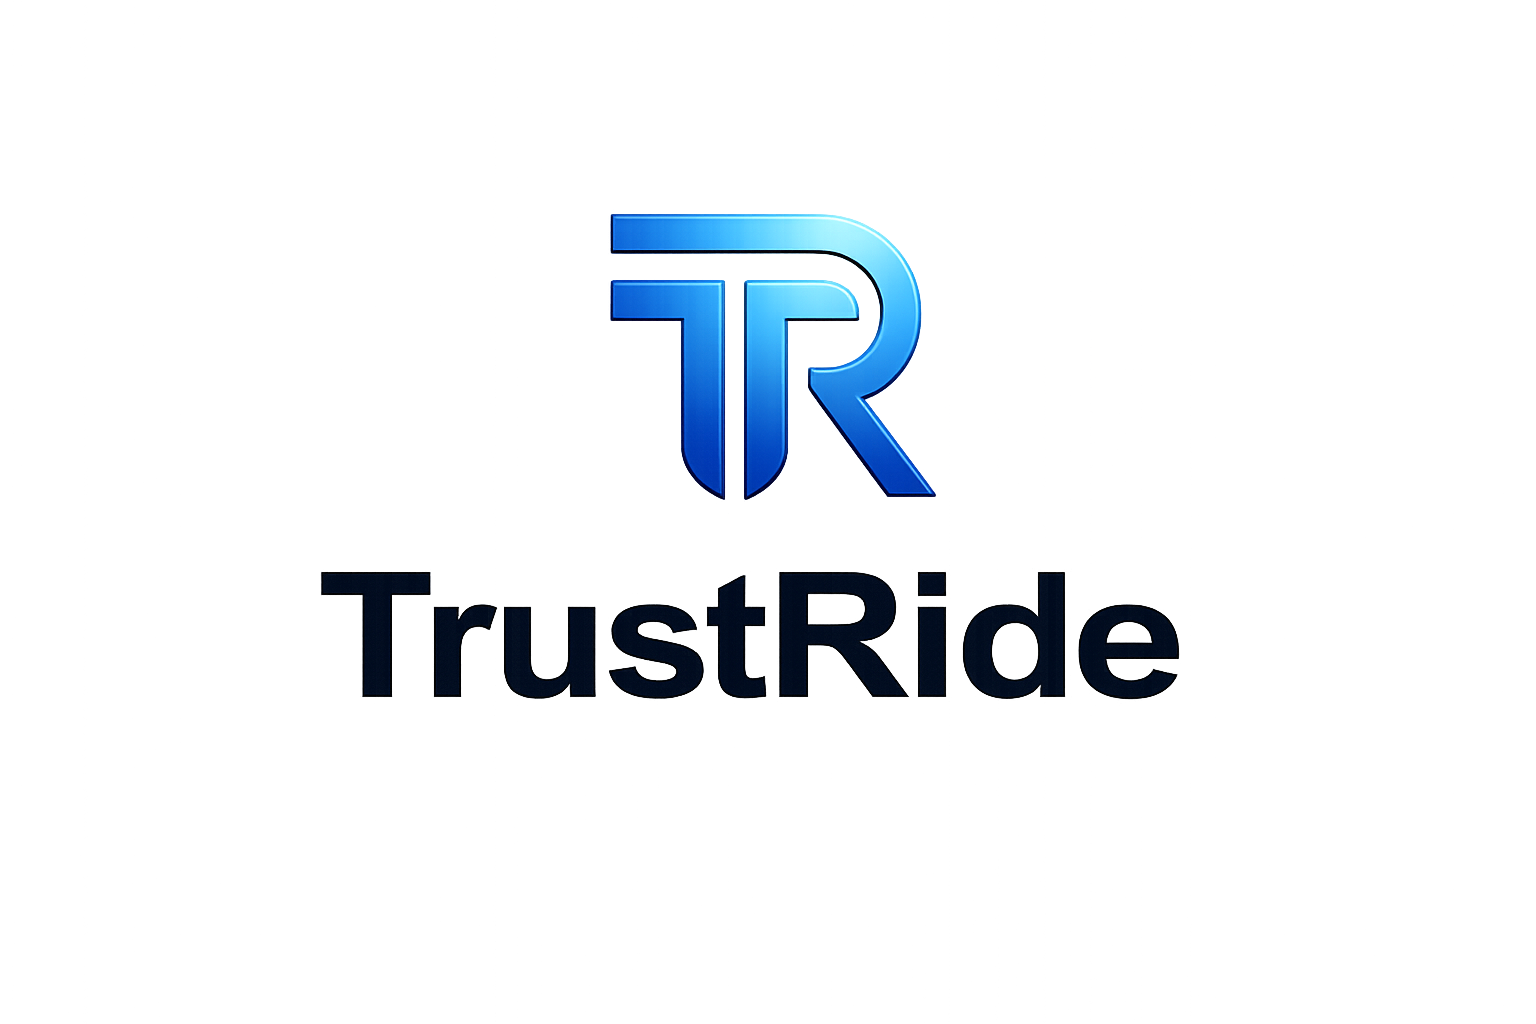
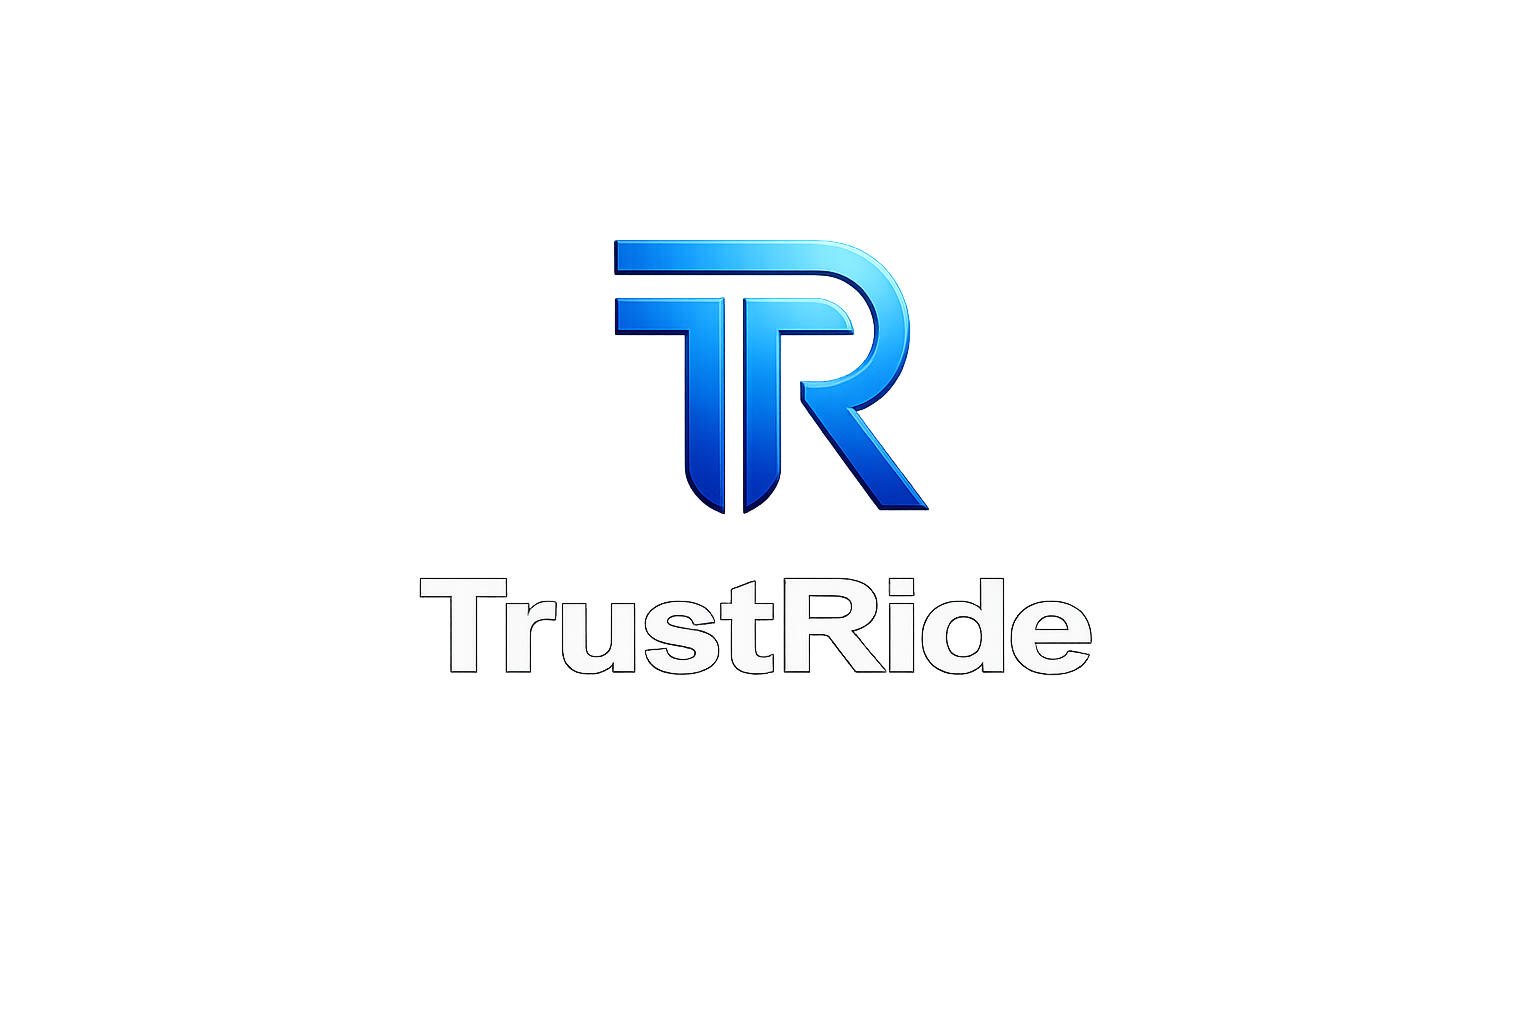
style: tightly align README header layout and update TrustRideBranding.png asset

Changed region(s): [[0.1875, 0.5312, 0.7812, 0.6875], [0.375, 0.1875, 0.625, 0.5]]

diff --git a/README.md b/README.md
@@ -1,10 +1,7 @@
 <div align="center">
-
-<img src="assets/TrustRideBranding.png" alt="TrustRide Logo" width="520">
-
-### Zero-Trust, Decentralized Cryptographic Remote EV Governance Platform
-
-*Governed & safe remote immobilization — for a system nobody currently has to answer to.*
+  <img src="assets/TrustRideBranding.png" alt="TrustRide Logo" width="460">
+  <h2 align="center" style="border-bottom: none; margin-top: 10px;">Zero-Trust, Decentralized Cryptographic Remote EV Governance Platform</h2>
+  <p><i>Governed & safe remote immobilization — for a system nobody currently has to answer to.</i></p>
 
 [![Next.js](https://img.shields.io/badge/Next.js-14-000000?style=for-the-badge&logo=nextdotjs&logoColor=white)](https://nextjs.org/)
 [![TypeScript](https://img.shields.io/badge/TypeScript-100%25_typesafe-3178C6?style=for-the-badge&logo=typescript&logoColor=white)](https://www.typescriptlang.org/)
